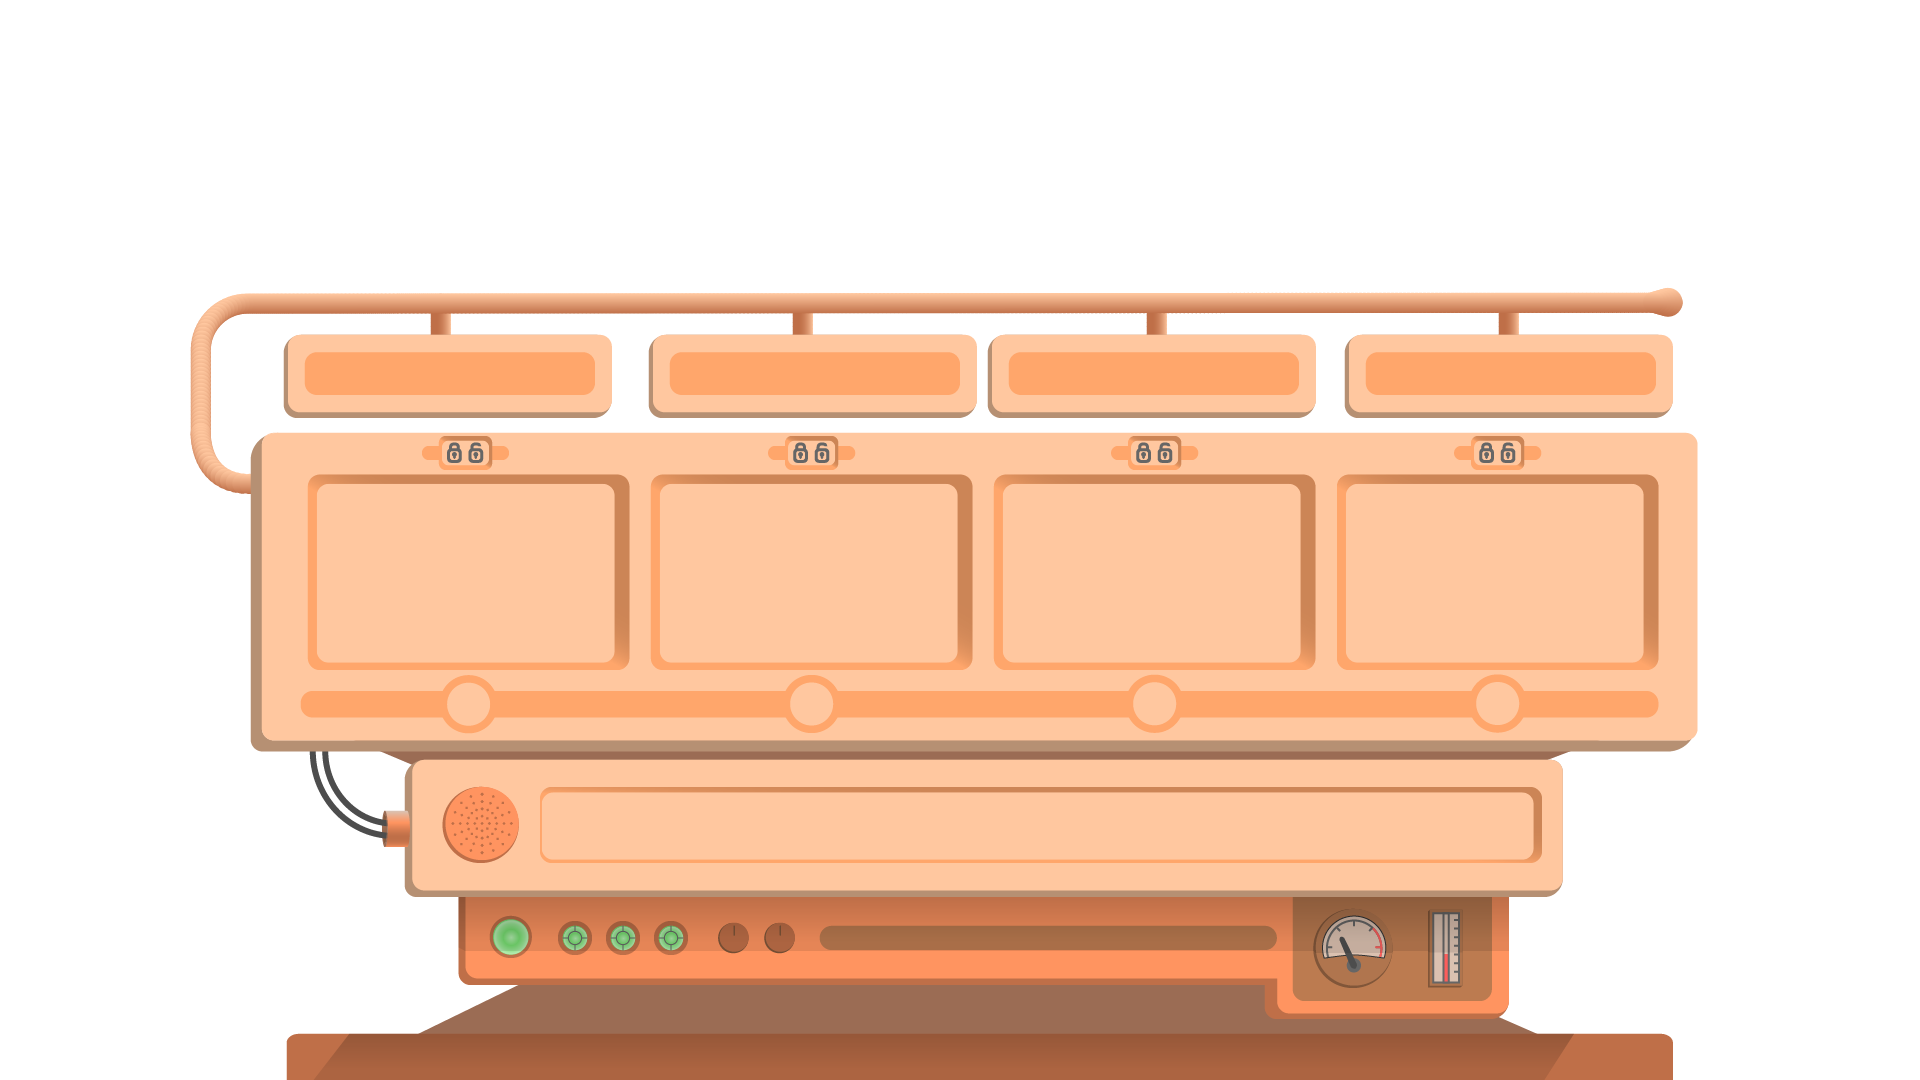
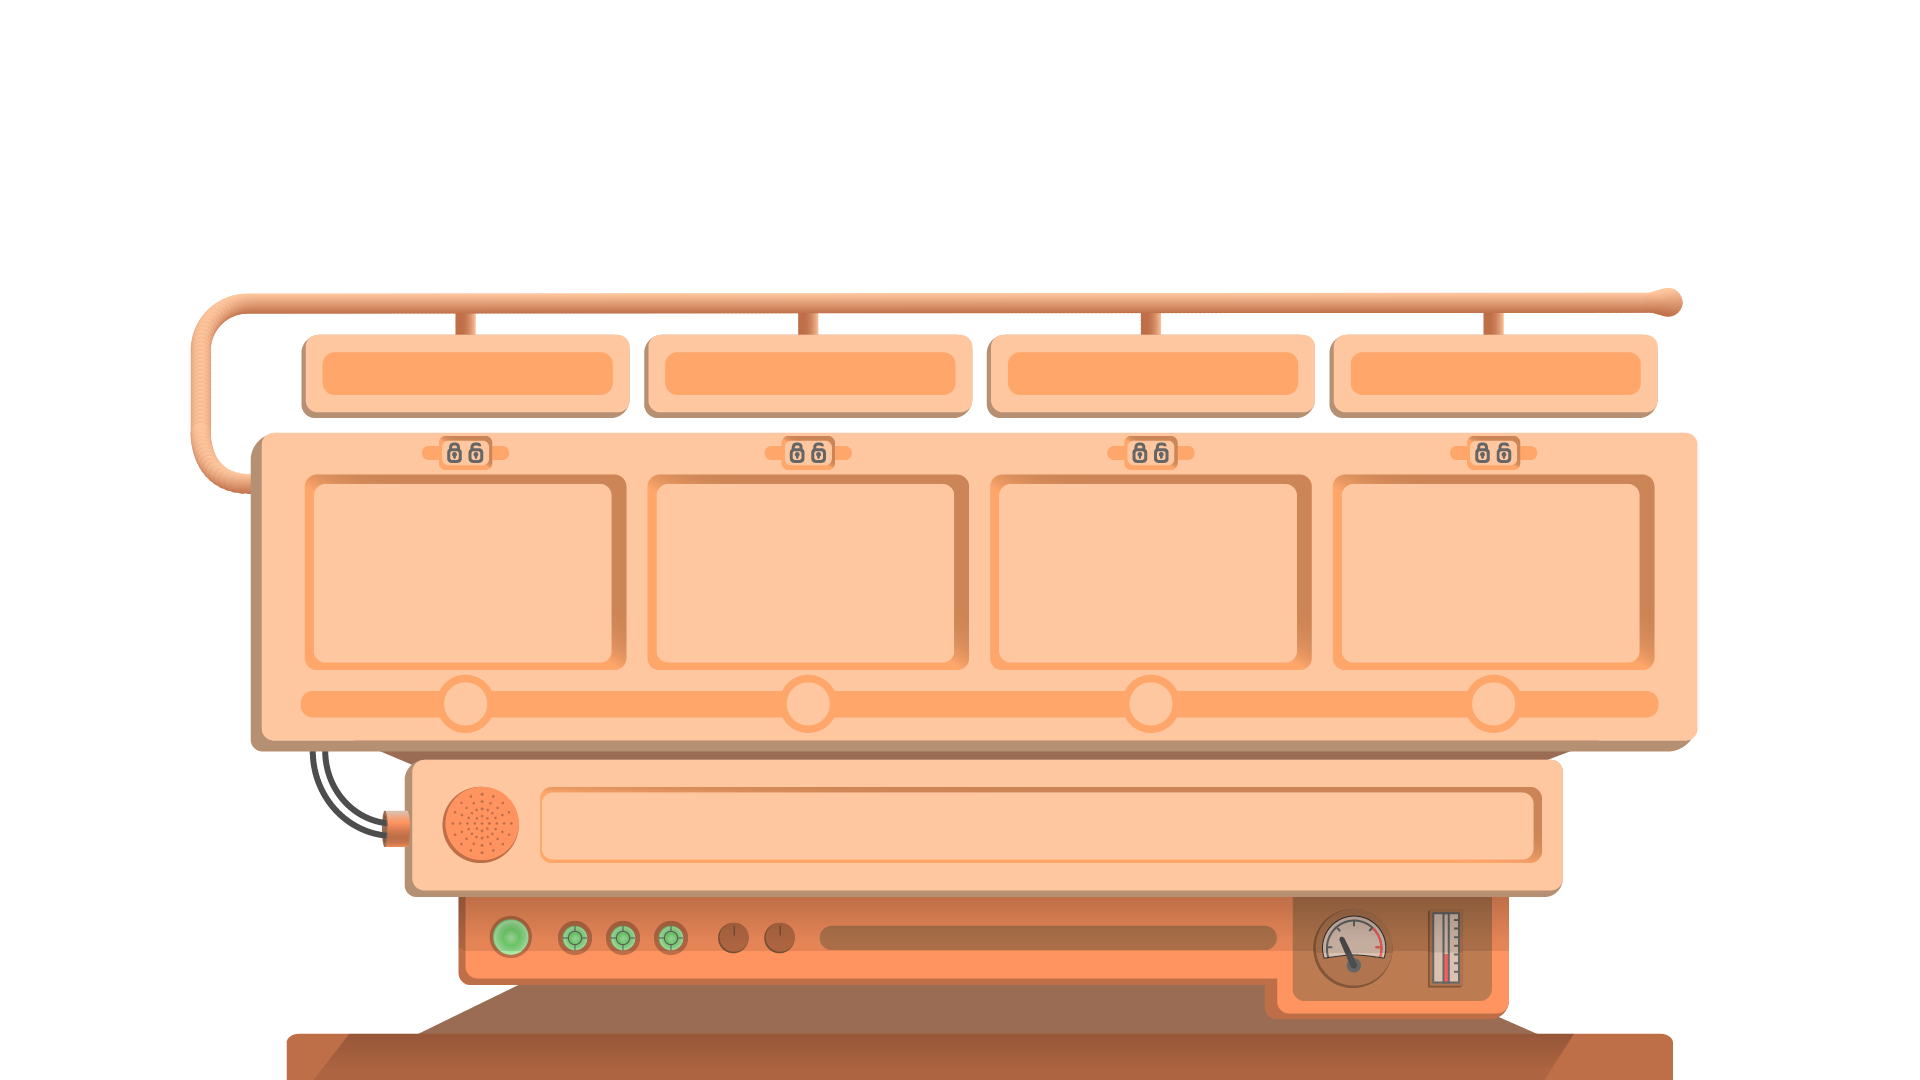
Add and style Sign component

diff --git a/src/layout/Machine.tsx b/src/layout/Machine.tsx
@@ -1,17 +1,18 @@
 import "./Machine.css";
 
 interface MachineProps {
-  children: React.ReactNode;
+  signs: React.ReactNode[];
 }
 
-const Machine: React.FC<MachineProps> = ({ children }) => {
+const Machine: React.FC<MachineProps> = ({ signs }) => {
   return (
     <div className="machine">
-      <div className="signs-container">{children}</div>
-      <div className="reels-container">{children}</div>
-      <div className="switches-container">{children}</div>
-      <div className="lights-container">{children}</div>
-      <div className="results-container">{children}</div>
+      <div className="signs-container">{signs}</div>
+      <div className="switches-container">{}</div>
+      <div className="reels-container">{}</div>
+      <div className="handle-container">{}</div>
+      <div className="lights-container">{}</div>
+      <div className="results-container">{}</div>
     </div>
   );
 };

diff --git a/src/layout/Machine.css b/src/layout/Machine.css
@@ -12,9 +12,19 @@
 .signs-container {
   position: absolute;
   top: 32.6%;
-  left: 16%;
-  width: 70.2%;
+  left: 17%;
+  width: 68.2%;
   height: 4%;
+  display: flex;
+  justify-content: space-between;
+}
+
+.switches-container {
+  position: absolute;
+  top: 40.4%;
+  left: 23%;
+  width: 56.3%;
+  height: 3%;
   border: 1px solid red;
 }
 
@@ -27,12 +37,12 @@
   border: 1px solid red;
 }
 
-.switches-container {
+.handle-container {
   position: absolute;
-  top: 40.4%;
-  left: 23%;
-  width: 56.3%;
-  height: 3%;
+  top: 45.4%;
+  left: 88.4%;
+  width: 4.3%;
+  height: 16%;
   border: 1px solid red;
 }
 

diff --git a/src/App.tsx b/src/App.tsx
@@ -1,12 +1,19 @@
 import "./App.css";
 import Machine from "./layout/Machine";
 import GameContainer from "./layout/GameContainer";
+import Sign from "./components/Sign";
+
+const signNames = ["TYPE", "TECH", "TASK", "TIME"];
 
 function App() {
+  const signs = signNames.map((signName) => {
+    return <Sign name={signName} />;
+  });
+
   return (
     <div className="App">
       <GameContainer>
-        <Machine>{}</Machine>
+        <Machine signs={signs}></Machine>
         {/* </Background> */}
       </GameContainer>
     </div>

diff --git a/src/components/Sign.css b/src/components/Sign.css
@@ -1,0 +1,9 @@
+.sign {
+  font-family: "Courier New", Courier, monospace;
+  font-size: 3.2vh;
+  font-weight: bold;
+  width: 21.6%;
+  text-align: center;
+  transform: translateY(8%);
+  color: rgb(64, 64, 64);
+}

diff --git a/src/components/Sign.tsx b/src/components/Sign.tsx
@@ -1,0 +1,11 @@
+import "./Sign.css";
+
+interface SignProps {
+  name: string;
+}
+
+const Sign: React.FC<SignProps> = ({ name }) => {
+  return <span className="sign">{name}</span>;
+};
+
+export default Sign;
